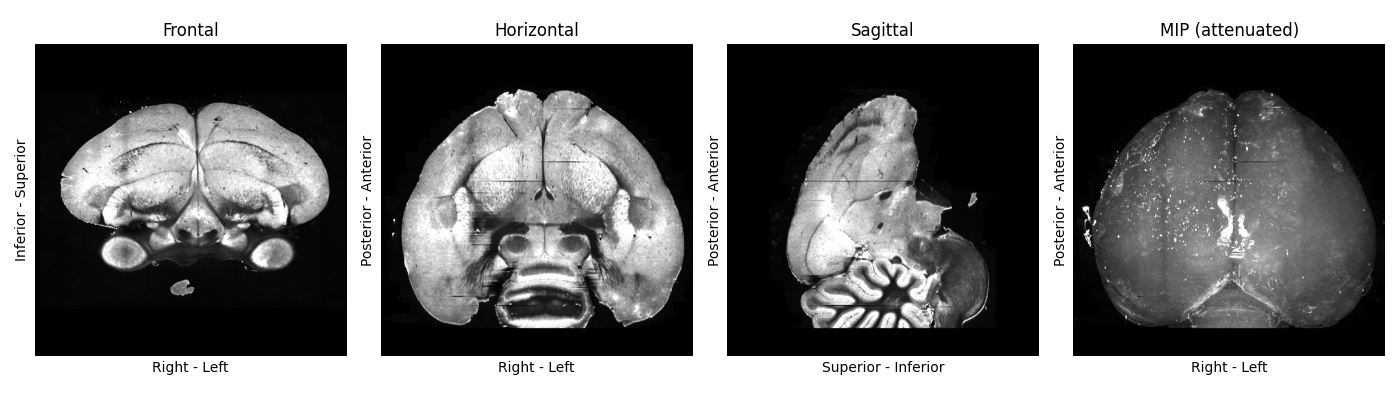
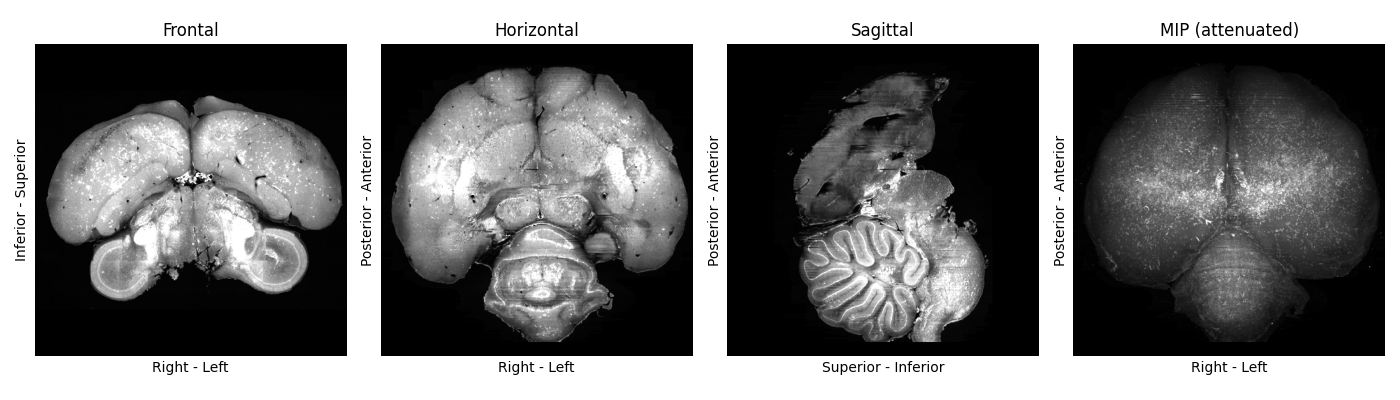
address feedback from group meeting

diff --git a/docs/source/tutorials/howto-process-for-template-building.md b/docs/source/tutorials/howto-process-for-template-building.md
@@ -8,12 +8,16 @@ This guide shows how to prepare input images for building a symmetric anatomical
 We will use some serial-section two-photon microscopy images of whole zebra finch brains as an example.
 
 :::{note}
-After preparation, you will need access to a high-performance computing (HPC) platform to build a template. On the HPC, you will need to have ANTs and the optimizedANTs scripts installed and available on your path. See our [installation guide](https://github.com/brainglobe/brainglobe-template-builder/blob/main/README.md) for more details.
+After preparation, you will probably need access to a high-performance computing (HPC) platform to build a template. On the HPC, you will need to have ANTs and the optimizedANTs scripts installed and available on your path. See our [installation guide](https://github.com/brainglobe/brainglobe-template-builder/blob/main/README.md) for more details.
 
 However, to follow this how-to guide, you will only need
 * Your input images
-* Initial familiarity with Python scripting
-* Initial familiarity with setting up a `conda` environment or similar
+* Familiarity with Python scripting
+* Familiarity with setting up a `conda` environment or similar
+
+Input images can be 
+* A folder of 2D TIFFs, or 3D TIFF or NIfTI images that fit into your memory
+* A folder of 2D TIFF images (can in total be larger than your available memory)
 :::
 
 ## Installation	
@@ -39,20 +43,21 @@ You can optionally include a `mask_filepath` column, with paths to pre-computed 
 You can also include a boolean column `use`, and set entries for samples you'd like to exclude to `False`.
 
 You can have an arbitrary number of unique additional columns, to help you keep track of any metadata you may be interested in. These will be ignored by our code, but it can be useful for you to cross-check this information.
+We provide a [minimal google sheet](https://docs.google.com/spreadsheets/d/14YnAdZsB7vp0Tyg5FbSBWlMCNIx9-iJLHWQzNgdMxWE/edit?usp=sharing) as a template for you to copy and edit.
 
 For example, your CSV file may look like this:
 
 ```
-subject_id,resolution_0,resolution_1,resolution_2,origin,filepath,species,sex,use
-ZF8001m,25,25,25,PSL,/data/zebrafinch/sourcedata/ZF8001m.tif,Zebra finch,M,True
-ZF8002f,25,25,25,PSL,/data/zebrafinch/sourcedata/ZF8002f.tif,Zebra finch,F,True
-...
+| subject_id | resolution_0 | resolution_1 | resolution_2 | origin | filepath | mask_filepath | species | sex | use |
+|---|---|---|---|---|---|---|---|---|
+| ZF8001m | 25 | 25 | 25 | PSL | /data/zebrafinch/sourcedata/ZF8001m.tif | 											    | Zebra finch | M | True |
+| ZF8002f | 25 | 25 | 25 | PSL | /data/zebrafinch/sourcedata/ZF8002f.tif | /data/zebrafinch/sourcedata/ZF8002f_mask.tif | Zebra finch | F | True |
 ```
 
 Some quick checks before proceeding:
 
 - Each `subject_id` is unique
-- There are no spaces in your CSV columns that the template-building code will use.
+- There are no spaces in the core CSV columns (You can have spaces in your own metadata).
 - Every `filepath` exists and is readable
 - `origin` values are [in the correct orientation](/documentation/setting-up/image-definition.html)
 
@@ -61,6 +66,12 @@ Some quick checks before proceeding:
 Copy the below script, and adapt paths and `output_vox_size` for your purposes.
 `source_csv` should point to the CSV file you created in the previous step.
 In this example, we choose an output directory on mounted HPC storage, and downsample our data to 50um resolution.
+
+:::{note}
+If your input images are folders of 2D TIFFs that will not fit into your memory, choose `output_vox_size` sufficiently large so the downsampled array will fit.
+We recommend `output_vox_size` to be at least 1/1000th of the longest brain axis: for example, if your brains are ~1 cm long, the highest resolution would be 10 um.
+It may be worth running the pipeline on lower-resolution data first (in our example, e.g. 50 um or 100 um) to accelerate trouble-shooting.
+:::
 
 ```
 from pathlib import Path
@@ -75,7 +86,7 @@ standardise(
 	output_vox_size=50,
 )
 ```
-This will standardise the orientation and isotropic resolution of your inputs.
+This will standardise the orientation and resolution of your inputs.
 After running the script, you should have these expected outputs in your output directory:
 
 - `standardised/standardised_images.csv`
@@ -96,45 +107,38 @@ For quality-control, inspect the `.png` files in the `standardised-QC/` subfolde
 
 If a sample is oriented or scaled wrongly:
 
-- fix its `origin` or `resolution_` entries in the input CSV
-- rerun the standardisation script.
+- Fix its `origin` or `resolution_` entries in the input CSV
+- Rerun the standardisation script.
 
 If a sample image is not of sufficient quality
-- remove it from the input CSV file
-- delete the `standardised/` subfolder
-- rerun the standardisation script.
+- Remove it from the input CSV file
+- Delete the `standardised/` subfolder
+- Rerun the standardisation script.
 
 :::{note}
-Gauging image quality is somewhat subjective and speculative - we provide examples of the zebra finch template building team's judgement calls in Figures 2+3, for reference.
+Gauging image quality is somewhat subjective and speculative. We provide examples of the zebra finch template building team's judgement calls in Figures 2+3, for reference. Mild sample warping and damage is usually fine, as long as it's distributed differentially across samples. 
 
-![Orthogonal slices and a 3D render of a standardised high-quality zebrafinch sample](./images/brainglobe-template-builder/standardised-sample-plot-good-enough.png)
+![Orthogonal slices and a 3D render of a standardised OK zebrafinch sample](./images/brainglobe-template-builder/standardised-sample-plot-good-enough.png)
 
 **Figure 2: A standardised plot of a zebra finch brain image, displaying mild damage (missing parts of cerebellum, sample seems slightly deformed by preparation/imaging). We included this sample.**
 
-![Orthogonal slices and a 3D render of a standardised high-quality zebrafinch sample](./images/brainglobe-template-builder/standardised-sample-plot-too-cropped.png)
+![Orthogonal slices and a 3D render of a standardised zebrafinch sample with major parts of the brain cropped](./images/brainglobe-template-builder/standardised-sample-plot-too-cropped.png)
 
 **Figure 3: A standardised plot of a zebra finch brain image, displaying severe cropping on each side. We excluded this sample.**
 :::
 
 ## Apply brightness correction and mask the samples
 
-To normalise the brightness and create masks of each sample, copy the code below, adapt the paths and optionally the `MaskConfig` parameters. The `output_dir` variable should match the output directory passed in the previous script.
+To normalise the brightness and create masks of each sample, copy the code below, adapt the path to the output directory. The `output_dir` variable should match the output directory passed in the previous script.
 
 ```
 from pathlib import Path
 from brainglobe_template_builder.preprocess import preprocess
-from brainglobe_template_builder.utils.preproc_config import PreprocConfig, MaskConfig
 
 output_dir = Path("/path/to/atlas-forge/ZebraFinch")
-config = PreprocConfig(
-	output_dir=output_dir,
-	mask=MaskConfig()
-)
-
 standardised_csv = output_dir / "standardised" / "standardised_images.csv"
-preprocess(standardised_csv, config=config)
+preprocess(standardised_csv)
 ```
-
 After running the script, check that you have the expected outputs:
 
 - `preprocessed/all_processed_brain_paths.txt`
@@ -143,7 +147,7 @@ After running the script, check that you have the expected outputs:
 - `preprocessed/sub-<subject_id>/..._processed_mask.nii.gz` for each sample
 - `preprocessed-QC/sub-<subject_id>-mask-QC-grid.png` for each sample
 
-Each `nii.gz` file should also have a `_lrflip` equivalent, which contains images mirrored along the mid-sagittal plane. This will result in a symmetric template despite asymmetry in the inputs.
+Each `nii.gz` file should also have a left-right flipped (`..._lrflip.nii.gz`) equivalent. This will result in a symmetric template despite asymmetry in the inputs.
 
 ## Inspect quality-control plots for preprocessing
 
@@ -151,10 +155,36 @@ The `.png` files in `preprocessed-QC/` show a series of coronal sections of each
 - mask should include full brain volume generously (with a small border around the brain - see Figure 4)
 - mask should exclude obvious background/non-brain regions
 
-If you need to improve a mask, open it with `napari` as a `Labels` layer to edit it, and overwrite the previous mask on disk. 
+If you need to improve a mask, open it with `napari` as [a `Labels` layer](https://napari.org/stable/howtos/layers/labels.html) to edit it, and overwrite the previous mask on disk. 
 You should also update the `mask_filepath` in `standardised/standardised_images.csv` for the corrected sample.
 
-If you have many unsatisfactory masks, you can try experimenting with different `MaskConfig` parameters using the "Preprocess" `napari` widget.
+:::{note}
+If you have many unsatisfactory masks, you can try experimenting with different `MaskConfig` parameters using the "Preprocess" `napari` widget. Once you have found a set of parameters you are happy with, you can create `PreprocConfig` and `MaskConfig` objects to pass to your `preprocess` function.
+
+The code above would then change to something like
+
+```
+from pathlib import Path
+from brainglobe_template_builder.preprocess import preprocess
+from brainglobe_template_builder.utils.preproc_config import PreprocConfig, MaskConfig, ThresholdMethod
+
+output_dir = Path("/path/to/atlas-forge/ZebraFinch")
+standardised_csv = output_dir / "standardised" / "standardised_images.csv"
+
+# pad more generously, and use non-default masking parameters
+config = PreprocConfig(
+	output_dir=output_dir,
+	mask=MaskConfig(   
+		gaussian_sigma = 5, # default 3
+    	threshold_method = "otsu", # default "triangle"
+    	closing_size = 7, # default 5
+    	erode_size = 2, # default 0
+	)
+	pad_pixels = 20
+)
+preprocess(standardised_csv, config=config)
+```
+:::
 
 ![Coronal sections of a zebra finch brain, with nicely fitting masks overlaid](./images/brainglobe-template-builder/preprocessed-sample-plot-nice-masks.png)
 

diff --git a/docs/source/tutorials/index.md b/docs/source/tutorials/index.md
@@ -88,27 +88,6 @@ Analyze and visualize bulk fluorescence tracing data
 Whole brain cell detection and registration
 :::
 
-:::{grid-item-card} {fas}`brain;sd-text-primary` Aligning samples
-:img-bottom: images/brainglobe-template-builder/template-builder-header.png
-:link: template-builder-pre-align
-:link-type: doc
-Aligning samples to image axes for template building (experimental!)
-:::
-
-:::{grid-item-card} {fas}`brain;sd-text-primary` Standardise template inputs
-:img-bottom: images/brainglobe-template-builder/template-builder-header-qc.png
-:link: howto-process-for-template-building
-:link-type: doc
-Standardising and preprocessing images for template building (experimental!)
-:::
-
-:::{grid-item-card} {fas}`brain;sd-text-primary` Run template building
-:img-bottom: images/brainglobe-template-builder/bird-template-header.png
-:link: howto-configure-hpc-template-building-job
-:link-type: doc
-Configuring and running an HPC job for template building (experimental!)
-:::
-
 :::{grid-item-card} {fas}`brain;sd-text-primary` Exploring atlas data
 :img-bottom: ../aws_examples/images/thumb/sphx_glr_explore_atlas_thumb.png
 :link: ../aws_examples/explore_atlas.html
@@ -129,6 +108,30 @@ Deepening understanding of atlas data and metadata (experimental!)
 Using the BrainGlobe Atlas API to fetch and inspect an atlas
 :::
 ::::
+
+## Template building (experimental)
+
+:::{grid-item-card} {fas}`brain;sd-text-primary` Preparing template inputs
+:img-bottom: images/brainglobe-template-builder/template-builder-header-qc.png
+:link: howto-process-for-template-building
+:link-type: doc
+Standardising and preprocessing images for template building (experimental!)
+:::
+
+:::{grid-item-card} {fas}`brain;sd-text-primary` Run template building
+:img-bottom: images/brainglobe-template-builder/bird-template-header.png
+:link: howto-configure-hpc-template-building-job
+:link-type: doc
+Configuring and running an HPC job for template building (experimental!)
+:::
+
+
+:::{grid-item-card} {fas}`brain;sd-text-primary` Aligning samples
+:img-bottom: images/brainglobe-template-builder/template-builder-header.png
+:link: template-builder-pre-align
+:link-type: doc
+Aligning samples to image axes for template building (experimental!)
+:::
 
 ## Downloads
 - [⬇️ Download all examples in Python source code (.zip)](/api_examples/api_examples_python.zip)